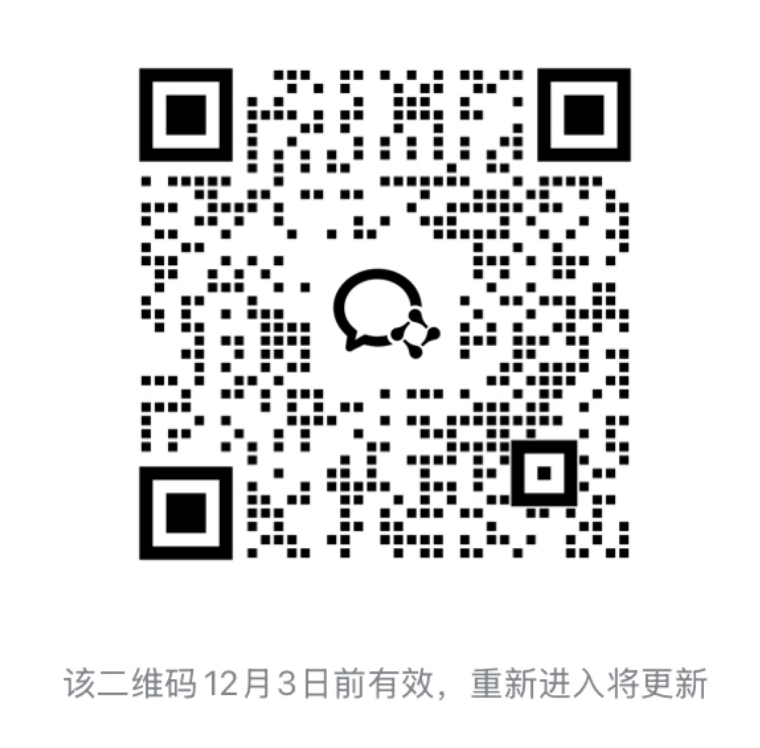
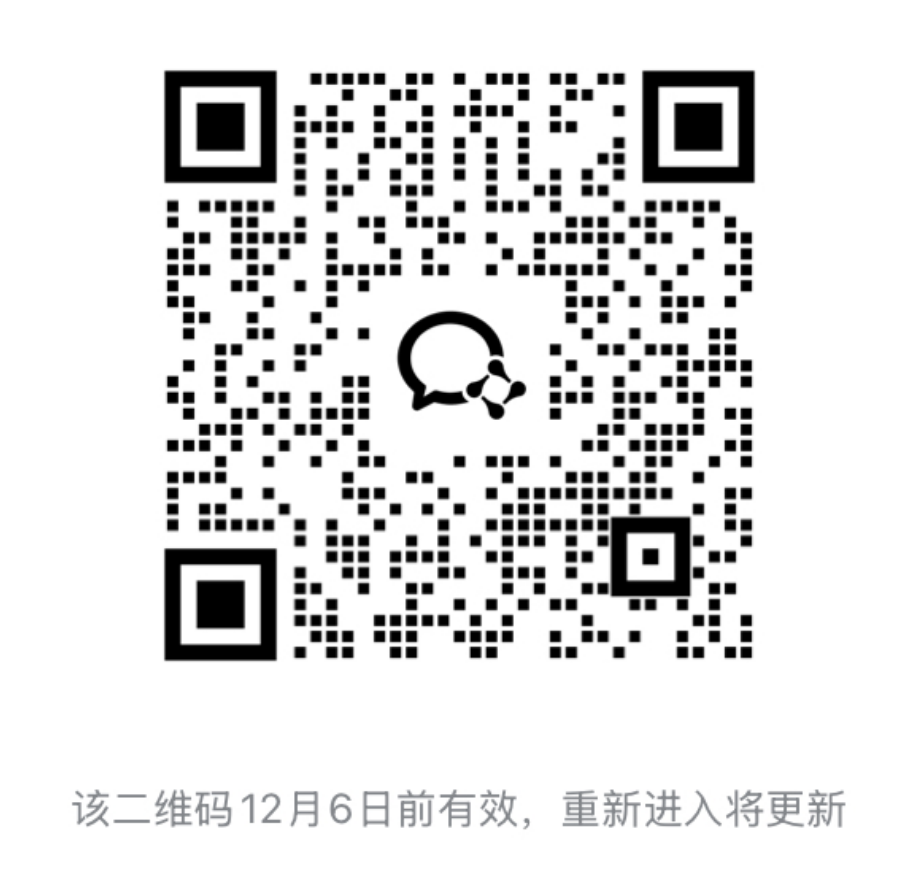
:bento: update free group qr

Changed region(s): [[0.1816, 0.0615, 0.8474, 0.7687], [0.0605, 0.8917, 0.575, 0.9532], [0.6053, 0.8917, 0.9382, 0.9532]]

diff --git a/pages/contact/qr-free.vue b/pages/contact/qr-free.vue
@@ -17,7 +17,7 @@ definePageMeta({
 
     <div class="flex justify-center">
       <div class="mt-8">
-        <img src="/images/qr-wechat-group-free.jpg" alt="微信群二维码" class="h-96" />
+        <img src="/images/qr-wechat-group-free.png" alt="微信群二维码" class="h-96" />
       </div>
     </div>
   </div>
